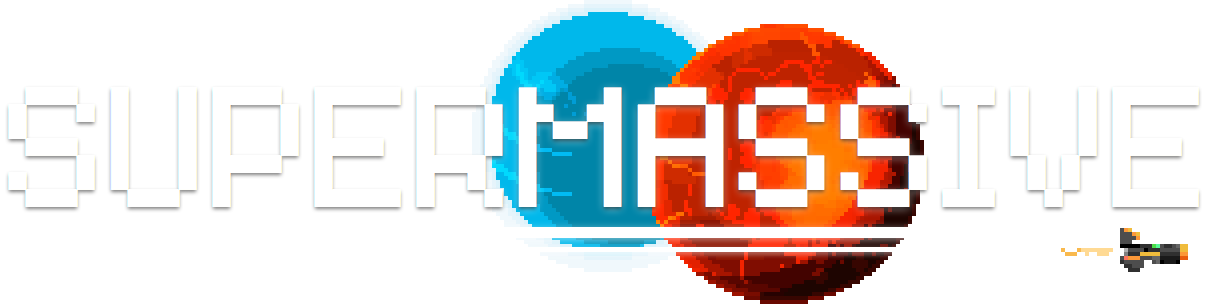
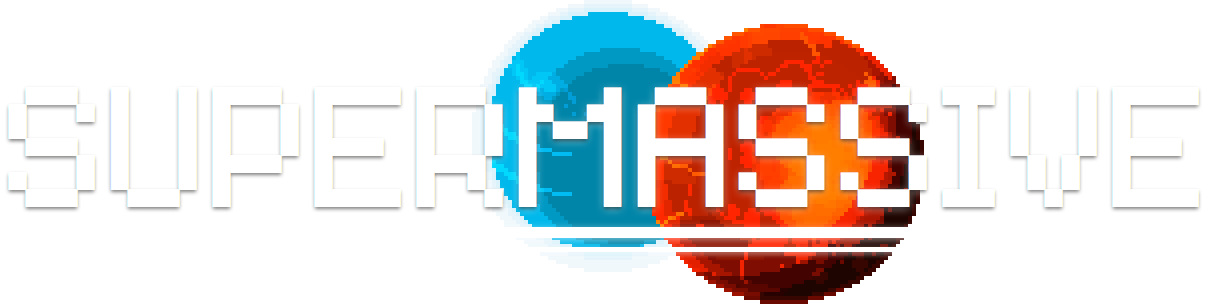
Header: animated ship.

Changed region(s): [[0.889, 0.7401, 1.0, 0.8882]]

diff --git a/_includes/header.html b/_includes/header.html
@@ -3,8 +3,10 @@
 
   <h1 class="header__title">
     <a href="/" title="Home">
-      <img src="{{ site.baseurl }}/static/images/title.png" alt="Supermassive" title="Supermassive" />
+      <img src="/static/images/title.png" alt="Supermassive" title="Supermassive" />
     </a>
+
+    <img class="header__anim" src="/static/images/player.gif" alt="Player" />
   </h1>
 
   <nav class="header__nav">

diff --git a/_sass/meta/_header.scss b/_sass/meta/_header.scss
@@ -10,12 +10,22 @@
 }
 
 .header__title {
+  position: relative;
+  margin: 0 auto;
   margin-bottom: 50px;
+  max-width: 800px;
   text-align: center;
 
   img {
     max-width: 800px;
   }
+}
+
+.header__anim {
+  position: absolute;
+  right: 0; bottom: 20px;
+  width: 104px;
+  height: auto;
 }
 
 .header__tagline {
